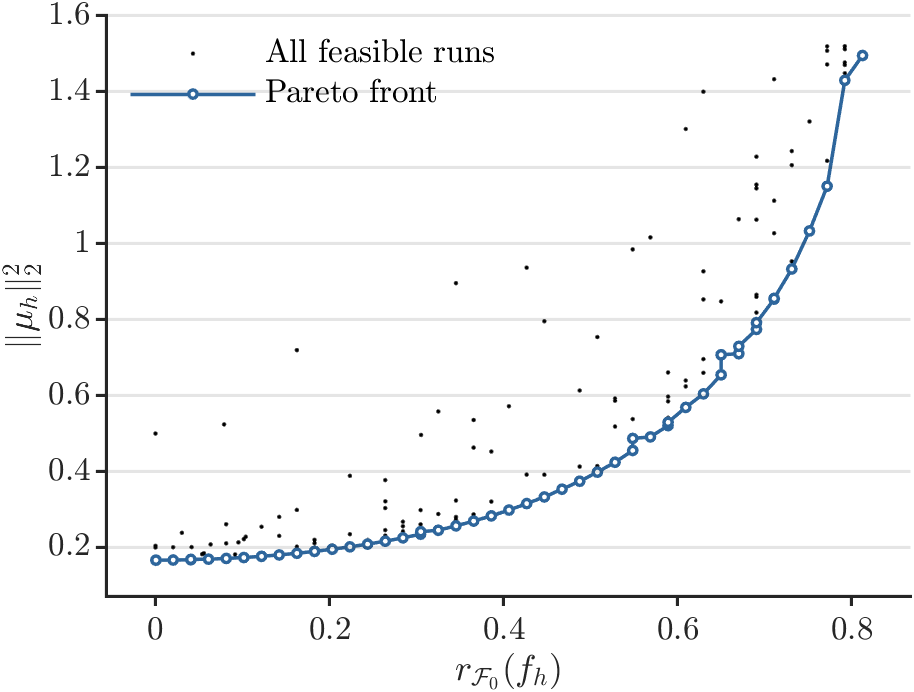
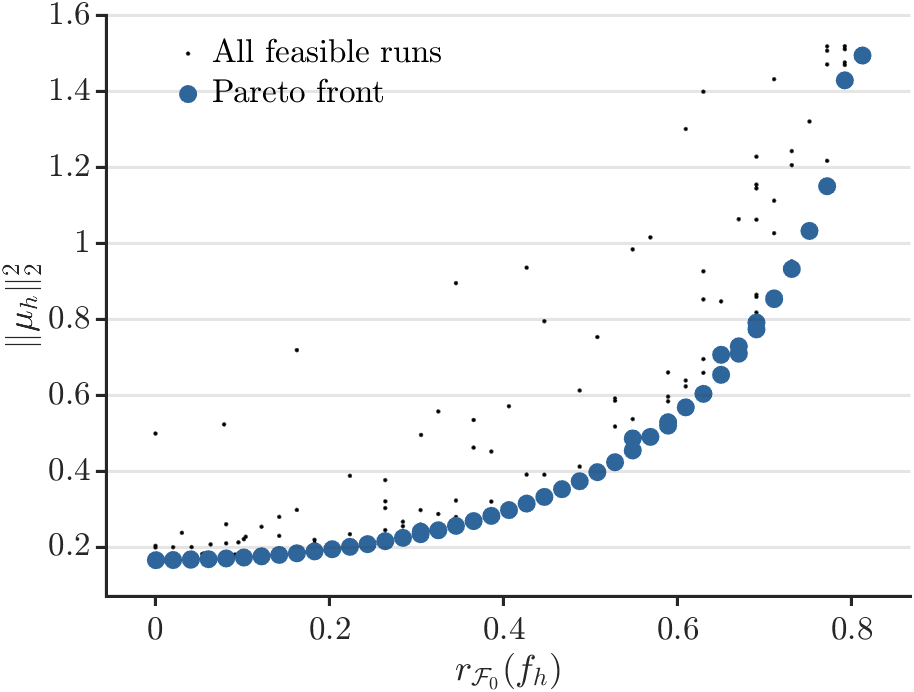
Report Study 02 geometric thresholds and plot discrete Pareto points

diff --git a/studies/analyze_study_02.m b/studies/analyze_study_02.m
@@ -223,7 +223,11 @@ for k=1:3
         'median_full_isotropy_residual', ...
             median(local.full_isotropy_residual_F), ...
         'max_rho_p_deg',max(local.arm_triad_shape_rms_deg), ...
-        'max_rho_u_deg',max(local.thrust_triad_shape_rms_deg));
+        'max_rho_u_deg',max(local.thrust_triad_shape_rms_deg), ...
+        'rho_p_lt_10_percent',100*mean(local.arm_triad_shape_rms_deg<10), ...
+        'rho_p_gt_10_percent',100*mean(local.arm_triad_shape_rms_deg>10), ...
+        'rho_u_lt_10_percent',100*mean(local.thrust_triad_shape_rms_deg<10), ...
+        'rho_u_gt_10_percent',100*mean(local.thrust_triad_shape_rms_deg>10));
     plot_data{k} = [local.arm_triad_shape_rms_deg, ...
                     local.thrust_triad_shape_rms_deg];
     fprintf('  %-17s %d designs; max gap %.3g; max physical violation %.3g\n', ...
@@ -237,6 +241,13 @@ summary = struct2table(vertcat(summary_records{:}));
 writetable(rotors,fullfile(table_dir,'geometry_rotors.csv'));
 writetable(configurations,fullfile(table_dir,'geometry_configurations.csv'));
 writetable(summary,fullfile(table_dir,'study02_manuscript_summary.csv'));
+fprintf('\nStudy 02 triad mismatch at 10 degrees:\n');
+for k=1:height(summary)
+    fprintf('  %-17s | rho_p <10: %.1f%%, >10: %.1f%% | rho_u <10: %.1f%%, >10: %.1f%%\n', ...
+        summary.objective{k}, summary.rho_p_lt_10_percent(k), ...
+        summary.rho_p_gt_10_percent(k), ...
+        summary.rho_u_lt_10_percent(k), summary.rho_u_gt_10_percent(k));
+end
 if settings.make_figures
     make_lollipop_figures(plot_data,figure_dir);
 end

diff --git a/studies/plot_study_04.m b/studies/plot_study_04.m
@@ -73,15 +73,10 @@ for k = 1:numel(settings.pairs)
         [xf, order] = sort(xf);
         yf = yf(order);
 
-        % The original Toolkit 1 plot connected every retained front point.
-        % For a jointly attainable optimum, a connecting line is misleading.
-        line_style = '-o';
-        if strcmp(pair_name, 'sigma_condition') || numel(xf) < 2
-            line_style = 'o';
-        end
-        h(2) = plot(ax, xf, yf, line_style, ...
+        % Plot nondominated solutions as separate markers.
+        h(2) = plot(ax, xf, yf, 'o', ...
             'Color', style.blue, 'LineWidth', 0.85, ...
-            'MarkerSize', 2.0, 'MarkerFaceColor', [1 1 1], ...
+            'MarkerSize', 3.5, 'MarkerFaceColor', style.blue, ...
             'MarkerEdgeColor', style.blue, ...
             'DisplayName', '$\mathrm{Pareto\ front}$');
 
